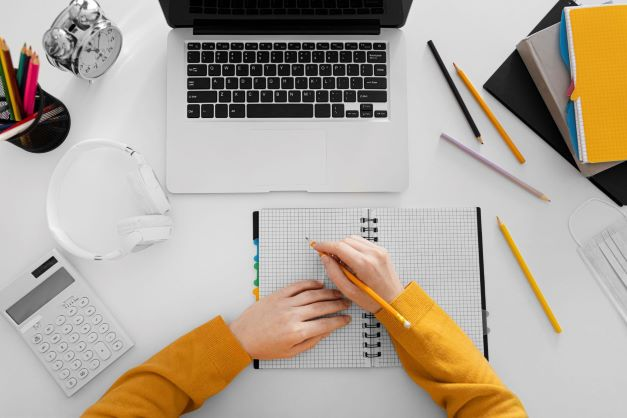
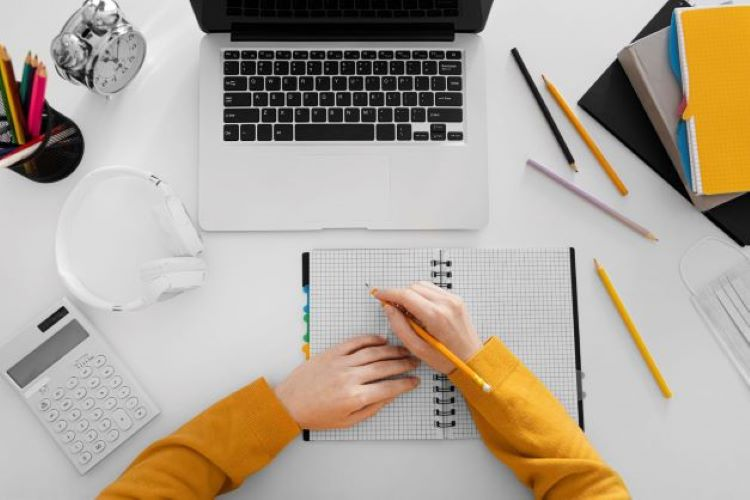
23112022

diff --git a/WDD 130/wdd130/proyect/styles/index.css b/WDD 130/wdd130/proyect/styles/index.css
@@ -28,8 +28,7 @@ nav a:hover {
     background-color: #F2E8CF;
 }
 #welcome-img{
-    grid-column: 2/3;
-    padding-left: 125px;
+    grid-area: 1, 2, 6, 3;
 }
 h2{
     grid-column: 1/2;
@@ -37,13 +36,14 @@ h2{
     font-family: 'Fuzzy Bubbles';
     text-align: center;
     color: #386641;
+    font-size: 2em;
 }
 #p1{
     grid-column: 1/2;
     grid-row: 2/3;
     text-align: left;
     color: #A7C957;
-    font-size: large;
+    font-size: 1.2em;
     font-family: 'Lato', Helvetica, sans-serif;
 }
 #p2{
@@ -52,7 +52,7 @@ h2{
     text-align: left;
     font-family: 'Lato', Helvetica, sans-serif;
     color: #386641;
-    font-size: medium;
+    font-size: 1em;
 }
 #p3{
     grid-column: 1/2;
@@ -60,11 +60,12 @@ h2{
     text-align: left;
     font-family: 'Lato', Helvetica, sans-serif;
     color: #386641;
-    font-size: medium;
+    font-size: 1em;
 }
 h3{
     grid-column: 1/2;
     grid-row: 5/6;
+    font-size: 1.2em;
     text-align: left;
     font-family: 'Fuzzy Bubbles';
     color: #BC4749;
@@ -78,42 +79,78 @@ h3{
 #how-it-works-img{
     grid-column: 3/4;
     grid-row: 1/6;
+    padding-left: 101px;
 }
 h1{
     grid-column: 2/3;
     grid-row: 1/2;
+    font-family: 'Fuzzy Bubbles';
+    color:#386641;
+    font-size: 2.5em;
+
 }
 #one{
     grid-column: 1/2;
     grid-row: 2/3;
+    color:#386641;
+    font-family: 'Fuzzy Bubbles';
+    font-size: 2em;
+    text-align: center;
+
 }
 #two{
     grid-column: 1/2;
     grid-row: 3/4;
+    color:#386641;
+    font-family: 'Fuzzy Bubbles';
+    font-size: 2em;
+    text-align: center;
+
+
 }
 #three{
     grid-column: 1/2;
     grid-row: 4/5;
+    color:#386641;
+    font-family: 'Fuzzy Bubbles';
+    font-size: 2em;
+    text-align: center;
 }
 #four{
     grid-column: 1/2;
     grid-row: 5/6;
+    color:#386641;
+    font-family: 'Fuzzy Bubbles';
+    font-size: 2em;
+    text-align: center;
 }
 #p4{
     grid-column: 2/3;
     grid-row: 2/3;
+    color:white;
+    font-family: 'Lato', Helvetica, sans-serif;
+
 }
 #p5{
     grid-column: 2/3;
     grid-row: 3/4;
+    color:white;
+    font-family: 'Lato', Helvetica, sans-serif;
+
 }
 #p6{
     grid-column: 2/3;
     grid-row: 4/5;
+    color:white;
+    font-family: 'Lato', Helvetica, sans-serif;
+
 }
 #p7{
     grid-column: 2/3;
     grid-row: 5/6;
+    color:white;
+    font-family: 'Lato', Helvetica, sans-serif;
+
 }
 footer{
     display: grid;

diff --git a/WDD 130/wdd130/proyect/index.html b/WDD 130/wdd130/proyect/index.html
@@ -35,10 +35,10 @@
         </section>
         <section class="how-it-works">
             <h1>How does it work? Easy!</h1>
-            <p id="one">1.</p>
-            <p id="two">2.</p>
-            <p id="three">3.</p>
-            <p id="four">4.</p>
+            <p id="one"><strong>1.</strong></p>
+            <p id="two"><strong>2.</strong></p>
+            <p id="three"><strong>3.</strong></p>
+            <p id="four"><strong>4.</strong></p>
             <p id="p4">In Virtual Learning you will have access to qualified teachers regardless of the distance you are</p>
             <p id="p5">Carry out a search and use the filters to find the most suitable teachers for your needs</p>
             <p id="p6">Schedule an online class, group or individual, from the comfort of your home or wherever you are</p>
